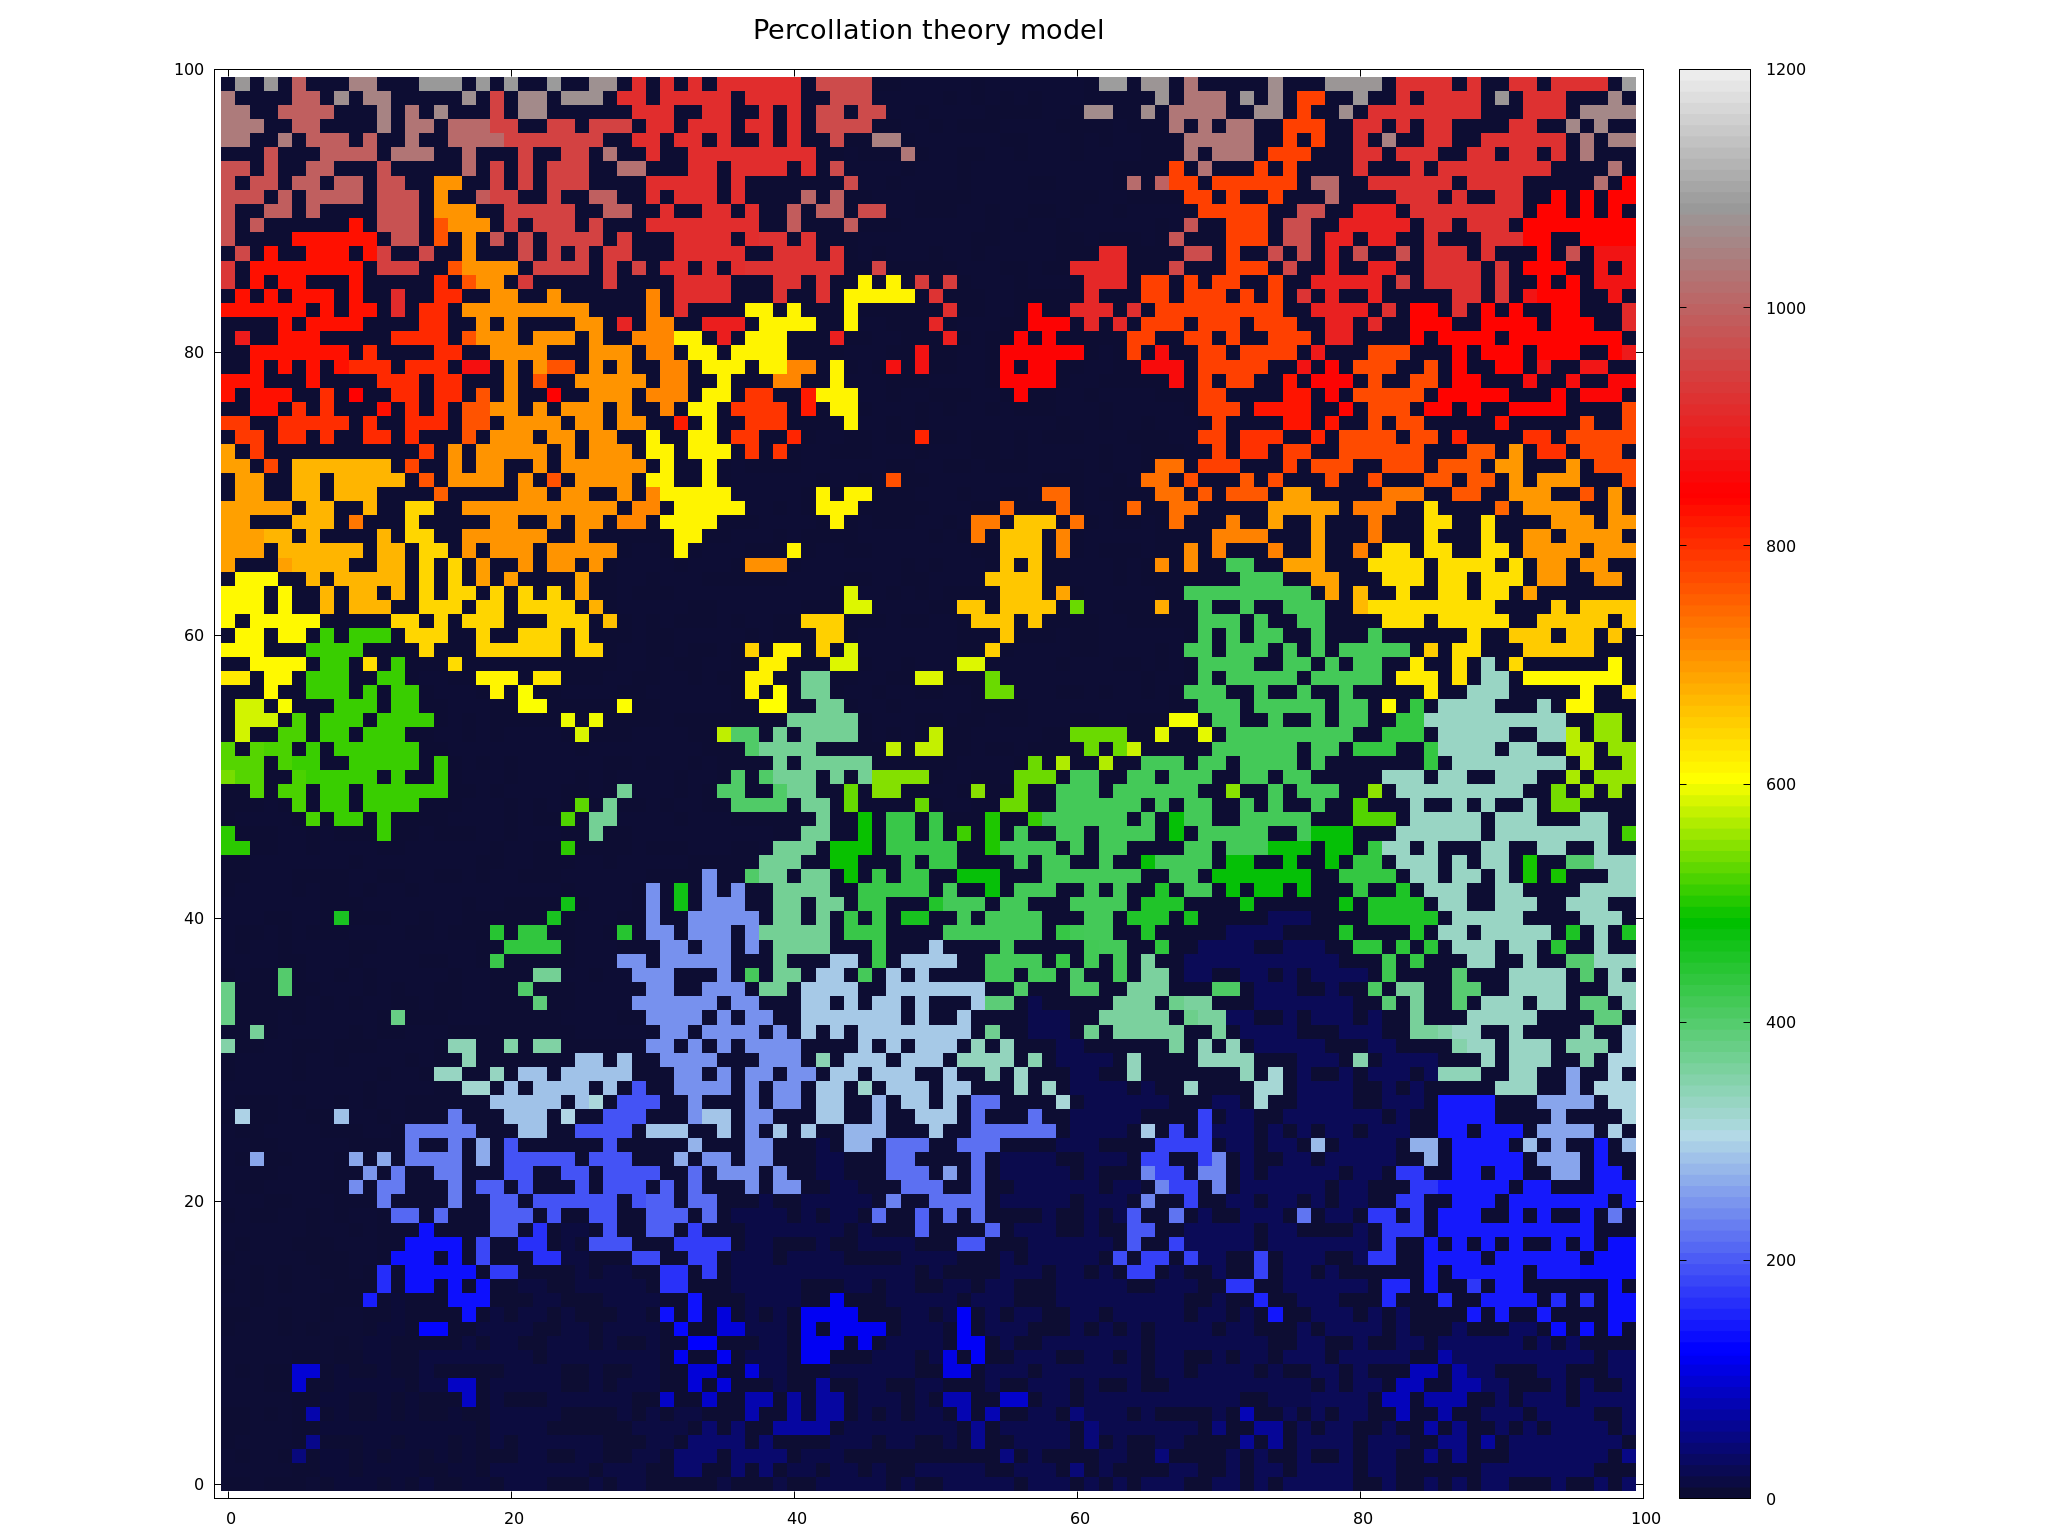
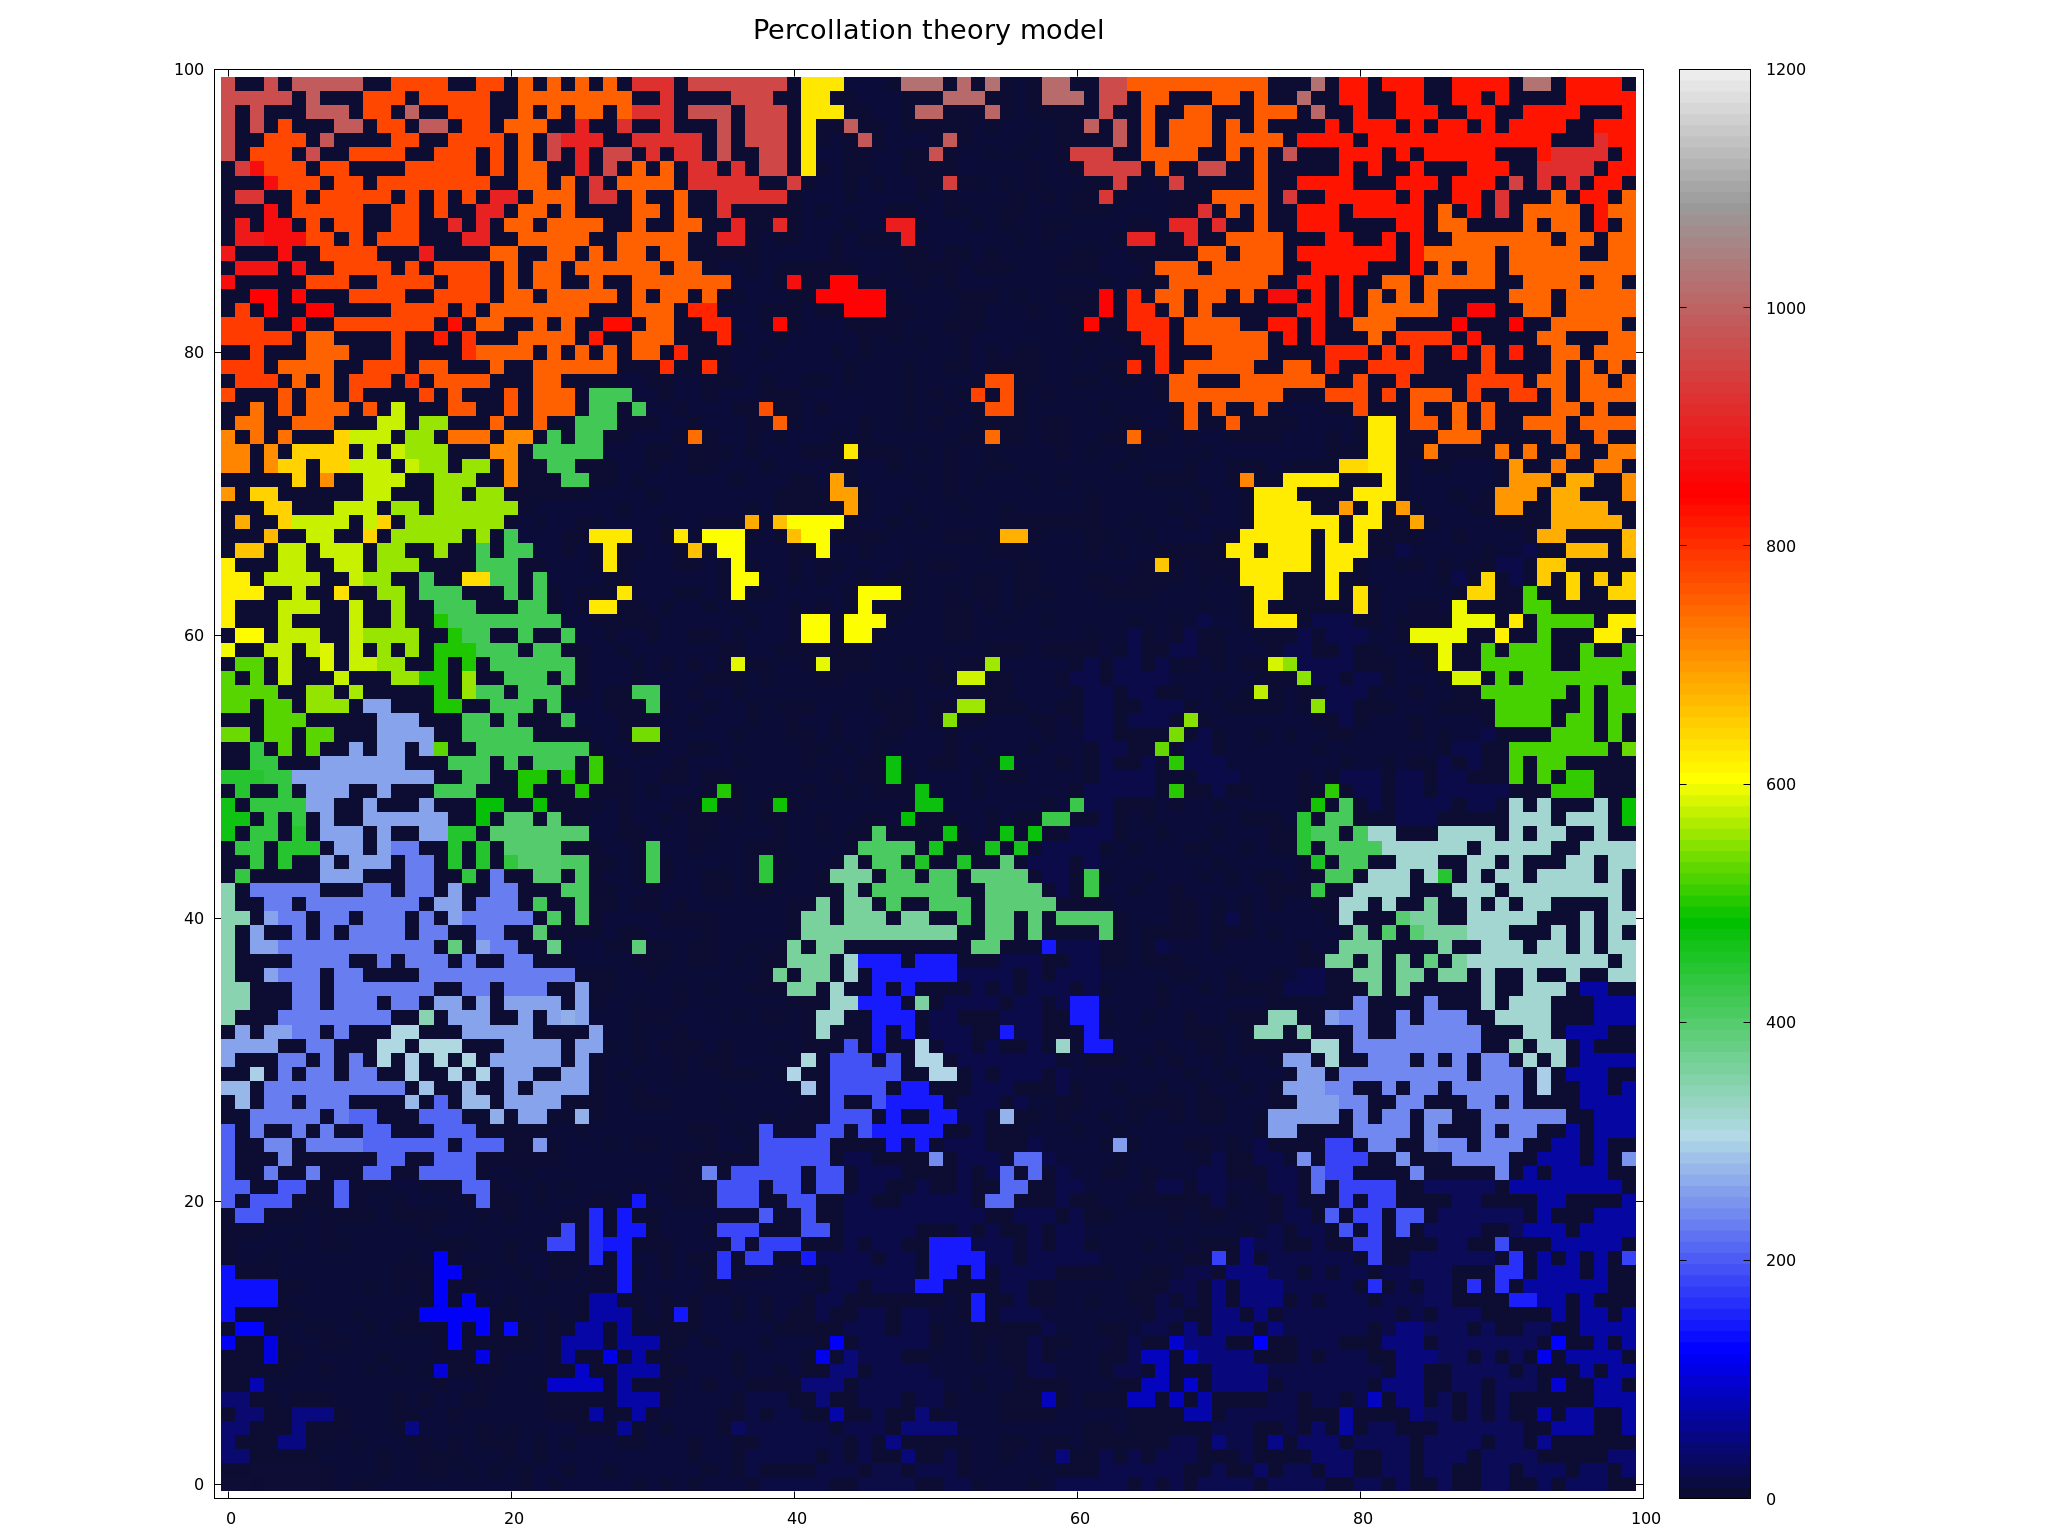
[Percolation theory] - readme

diff --git a/Percolation/README.MD b/Percolation/README.MD
@@ -1,14 +1,8 @@
-# Pendulum
+# Percolation theory
 
-## [Model](https://en.wikipedia.org/wiki/Pendulum)
+## [Model](https://en.wikipedia.org/wiki/Percolation_theory)
 
-The differential equation which represents the motion of a simple pendulum is
-
-![Eq](https://wikimedia.org/api/rest_v1/media/math/render/svg/36e0d601a33a7562dfb162abd7e58859a40ccff1)
-
-* _g_ - acceleration due to gravity;
-* _l_ - length of the pendulum;
-* _θ_ - angular displacement.
+In statistical physics and mathematics, percolation theory describes the behaviour of connected clusters in a random graph. The applications of percolation theory to materials science and other domains are discussed in the article percolation.
 
 ## Progect using
 
@@ -17,37 +11,11 @@ The differential equation which represents the motion of a simple pendulum is
 
 Change defines in `main.c` file which are listed below, to control some settings of progect.
 
-### Сoefficients from equation:
-
 ```C
-#define OMEGA 		1
-#define LAMBDA 		0.2
+#define MATR_DIM 100
 ```
-
-|define     |description    |
-|:---------:|:-------------:|
-|OMEGA      |g/l            |
-|LAMBDA     |coefficient characterizing the power of resistance to damped pendulum               |
-
-### Initial conditions:
-
-```C
-#define PHI0 		2
-#define DPHI0 		2.4
-```
-
-Here `PHI` characterizes _θ_ which was mentioned in the previous section.
-
-### Time conditions::
-
-```C
-#define DEFAULT_A 	0
-#define DEFAULT_B 	6*PI
-#define DOTS_NUM 	10000
-#define STEP 		((DEFAULT_B - DEFAULT_A) / DOTS_NUM)
-```
-This defines can be used to control some plotting settings.
+Here MATR_DIM defines size of output matrix.
 
 ## Result
 
-![Animation](https://github.com/vakulin95/Math-modeling/blob/master/Pendulum/files/MM_phase.pdf)
+![Animation](https://github.com/vakulin95/Math-modeling/blob/master/Percolation/files/pl_out.png)
